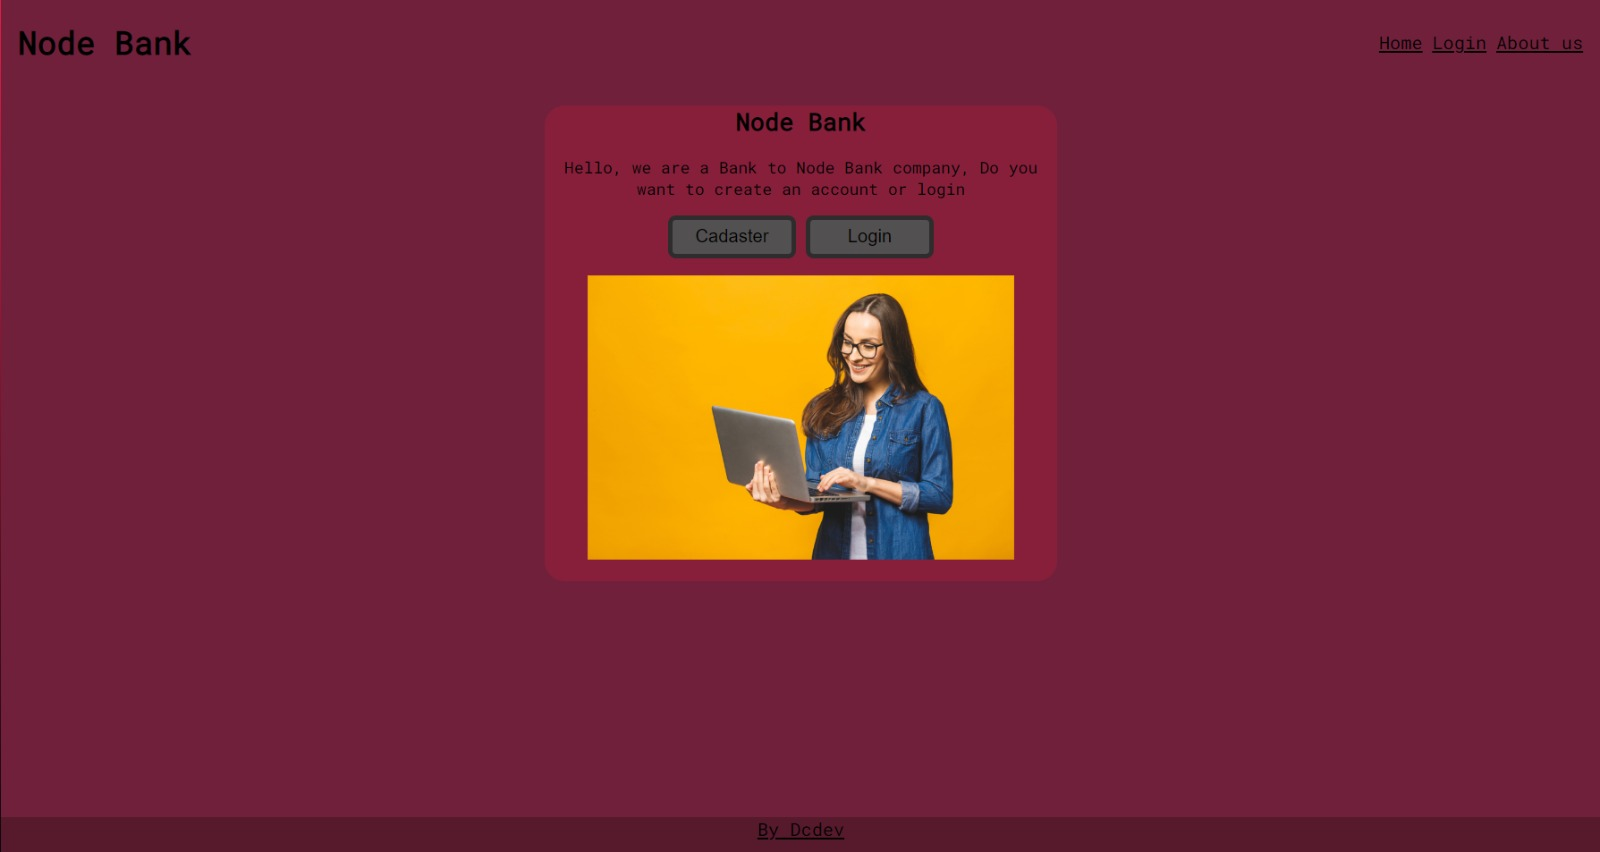
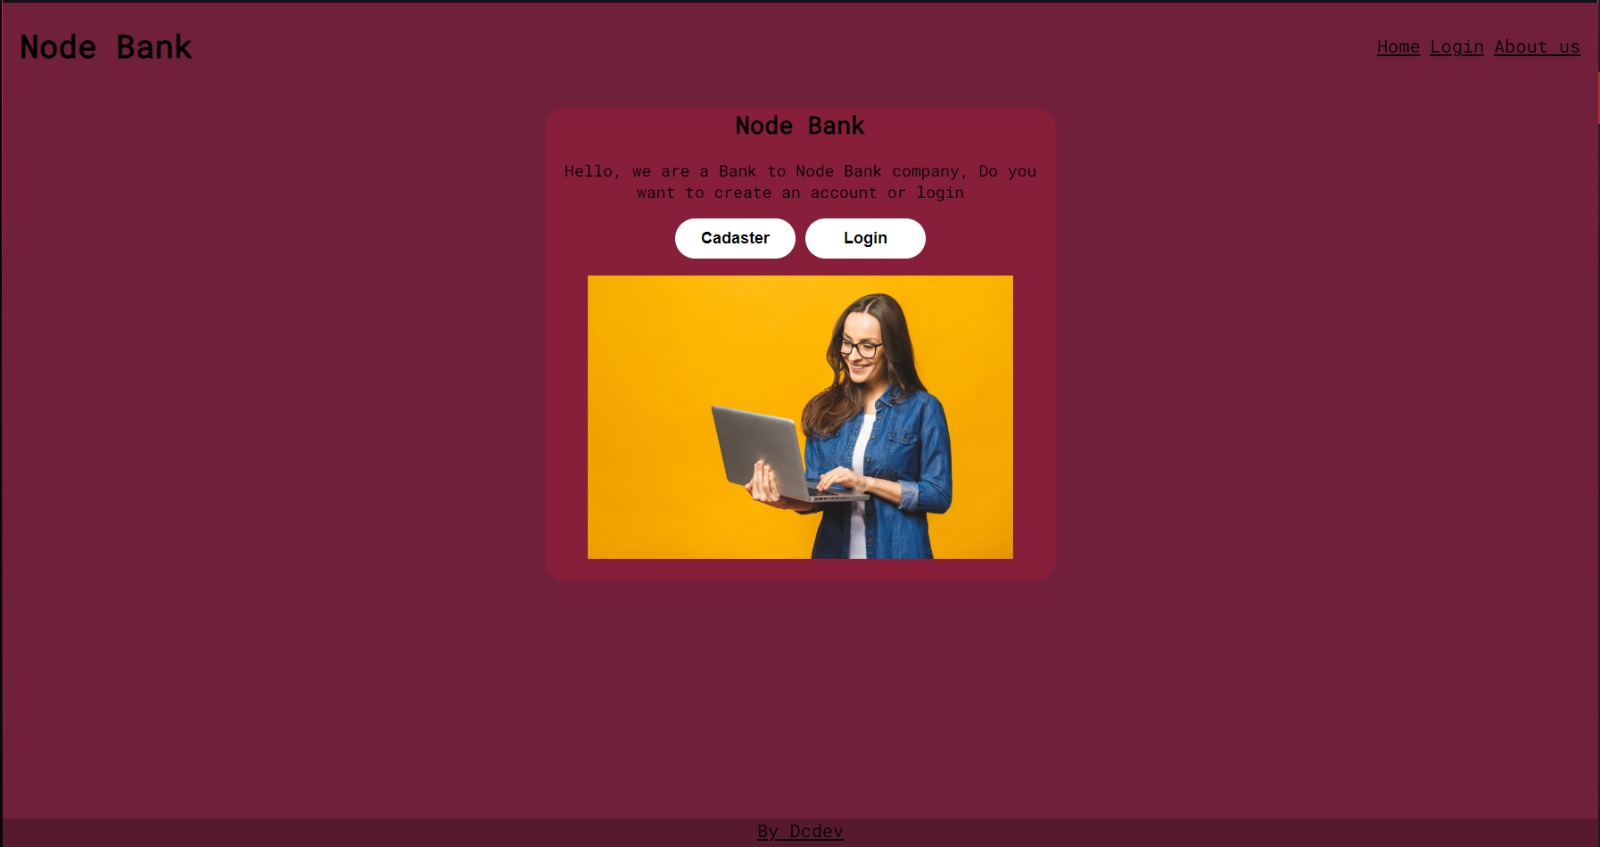
atualização login

diff --git a/html/LoginPage.html b/html/LoginPage.html
@@ -10,20 +10,56 @@
     <title>Login</title>
 </head>
 <body>
-    <h1>Login</h1>
-    <div class="boxLogin">
-        <h4>login</h4>
-        <input type="text" placeholder="Login" class="input" id="login">
-        <h4>Password</h4>
-        <input type="password" placeholder="password" class="input" id="password">
-        <button class="confirmation">Enter</button>
-    </div>
-    <div class="boxStyle">
-    </div>
-    <div class="back">
-        <button id="backHomePage" onclick="Back">Home Page</button>
-    </div>
-</main>
+    <header class="Header">
+        <h1>Node Bank</h1>
+        <div class="headLinks">
+                <a href="#"
+                  class="Links"
+                  id="Home">
+                Home</a>
+                <a href="/html/LoginPage.html"
+                   class="Links"
+                   id="Login">
+                Login</a>
+                <a href="/html/AboutUsPage.html"
+                    class="Links"
+                    id="AboutUS">
+                    About us</a>
+                </div>
+    </header>
+    <section>
+        <center>
+        <div class="form-box">
+            <div class="form-value">
+                <form action="">
+                    <h2>Login</h2>
+                    <div class="inputbox">
+                        <img src="/images/email.png" class="icon"></img>
+                        <input type="email" required>
+                        <label for="">Email</label>
+                    </div>
+                    <div class="inputbox">
+                        <img src="/images/cadeado.png" class="icon"></img>
+                        <input type="password" required>
+                        <label for="">Password</label>
+                    </div>
+                    <div class="forget">
+                        <label for=""><input type="checkbox">Remember Me  <a href="#">Forget Password</a></label>
+                      
+                    </div>
+                    <button>Log in</button>
+                    <div class="register">
+                        <p>Don't have a account <a href="#">Register</a></p>
+                    </div>
+                </form>
+            </div>
+        </div>
+    
+        <div class="back">
+            <button id="backHomePage" onclick="Back">Home Page</button>
+        </div>
+    </section>
+</center>
 <footer>By Dcdev</footer>
 <script src="/Js/LoginPage.js"></script>
 <script src="/Js/global.js"></script>

diff --git a/Css/LoginPage.css b/Css/LoginPage.css
@@ -1,0 +1,112 @@
+section{
+    padding-top: 13vh;
+    display:absolute;
+    justify-content: center;
+    align-items: center;
+    min-height: 100vh;
+    width: 100%;
+}
+.Header{
+    display:flex;
+    padding-left: 2vh;
+}.headLinks{
+    /**/
+    align-self: center;
+    padding-left:75%;
+    }
+.form-box{
+    position: relative;
+    width: 400px;
+    height: 450px;
+    background: transparent;
+    border: 2px solid rgba(255,255,255,0.5);
+    border-radius: 20px;
+    backdrop-filter: blur(15px);
+    display: flex;
+    justify-content: center;
+    align-items: center;
+
+}
+h2{
+    font-size: 2em;
+    color: #fff;
+    text-align: center;
+}
+.inputbox{
+    position: relative;
+    margin: 30px 0;
+    width: 310px;
+    border-bottom: 2px solid #fff;
+}
+.inputbox label{
+    position: absolute;
+    top: 50%;
+    left: 5px;
+    transform: translateY(-50%);
+    color: #fff;
+    font-size: 1em;
+    pointer-events: none;
+    transition: .5s;
+}
+input:focus ~ label,
+input:valid ~ label{
+top: -5px;
+}
+.inputbox input {
+    width: 100%;
+    height: 50px;
+    background: transparent;
+    border: none;
+    outline: none;
+    font-size: 1em;
+    padding:0 35px 0 5px;
+    color: #fff;
+}
+.inputbox ion-icon{
+    position: absolute;
+    right: 8px;
+    color: #fff;
+    font-size: 1.2em;
+    top: 20px;
+}
+.forget{
+    margin: -15px 0 15px ;
+    font-size: .9em;
+    color: #fff;
+    display: flex;
+    justify-content: space-between;  
+}
+
+.forget label input{
+    margin-right: 3px;
+    
+}
+.forget label a{
+    color: #fff;
+    text-decoration: none;
+}
+.forget label a:hover{
+    text-decoration: underline;
+}
+
+.register{
+    font-size: .9em;
+    color: #fff;
+    text-align: center;
+    margin: 25px 0 10px;
+}
+.register p a{
+    text-decoration: none;
+    color: #fff;
+    font-weight: 600;
+}
+.register p a:hover{
+    text-decoration: underline;
+}
+.back{
+    padding-top: 10vh;
+    width: 25vh;
+}
+.icon{
+    width: 20px;
+}

diff --git a/Css/homePage.css b/Css/homePage.css
@@ -1,49 +1,19 @@
-button{
-    width: 15vh;
-    height: 5vh;
-    border-radius: 8px;
-    border: 5px solid rgba(9, 6, 6, 0.49);
-    background-color: rgb(82, 80, 80);
-    color: rgb(1, 1, 1);
-    font-size: large;
-    transition:ease-in-out;
-    transition-duration: 0.2s;
-}
-button:hover{
-    color: black;
-    background-color: antiquewhite;
-    border: 3px solid black;
-}
 img{
     padding: 2vh;
     width: 50vh;
     border-radius: 15px;
 }
-.Header{
-    display:flex;
-    padding-left: 2vh;
-}
+
 .backPhoto{
     border-radius: 15px;
 }
-.headLinks{
-    /**/
-    align-self: center;
-    padding-left:75%;
-    }
+
 main{
     background-color: rgba(179, 30, 60, 0.332);
     text-align: center;
     width: 60vh;
     border-radius: 20px;
 }
-a{
-    text-decoration:underline;
-    color: black;
-    font-size: large;
-    transition: ease-in-out;
-    transition-duration: 1s;
-}
-a:hover{
-    color: antiquewhite;
+button{
+    width: 120px!important;
 }

diff --git a/Css/global.css b/Css/global.css
@@ -15,3 +15,41 @@ footer{
     left: 0;
     padding-bottom: 12px;
 }
+
+button{
+    width: 100%;
+    height: 40px;
+    border-radius: 40px;
+    background: #fff;
+    border: none;
+    outline: none;
+    cursor: pointer;
+    font-size: 1em;
+    font-weight: 600;
+    transition:ease-in-out;
+    transition-duration: 0.2s;
+}
+
+button:hover{
+    color: black;
+    background-color: antiquewhite;
+    height: 45px;
+    border: 3px solid black;
+}
+
+.Header{
+    display:flex;
+    padding-left: 2vh;
+}.headLinks{
+    /**/
+    align-self: center;
+    padding-left:75%;
+    }a{
+    text-decoration:underline;
+    color: black;
+    font-size: large;
+    transition: ease-in-out;
+    transition-duration: 1s;
+}a:hover{
+    color: antiquewhite;
+}

diff --git a/README.md b/README.md
@@ -5,4 +5,6 @@ Node Bank
 
 <h2>Prints</h2>
 <h3>Home page</h3>
-<img src="/prints/homePage.jpeg">
+<img src="/prints/homepage.jpeg">
+<h3>Login page</h3>
+<img src="/prints/loginpage.jpeg">
